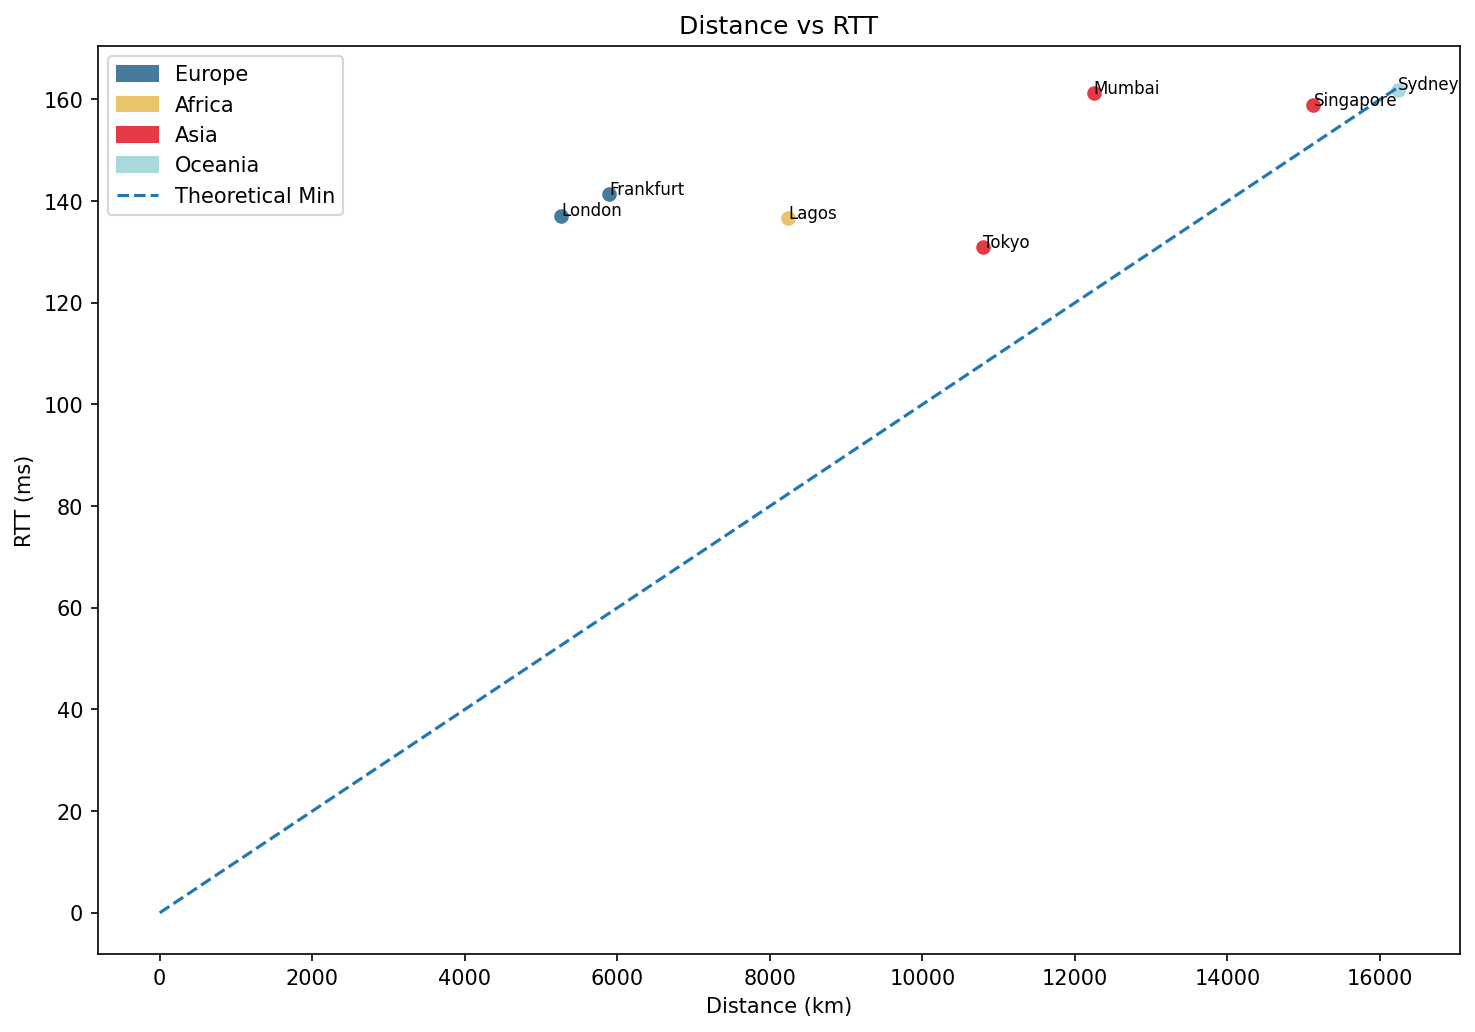
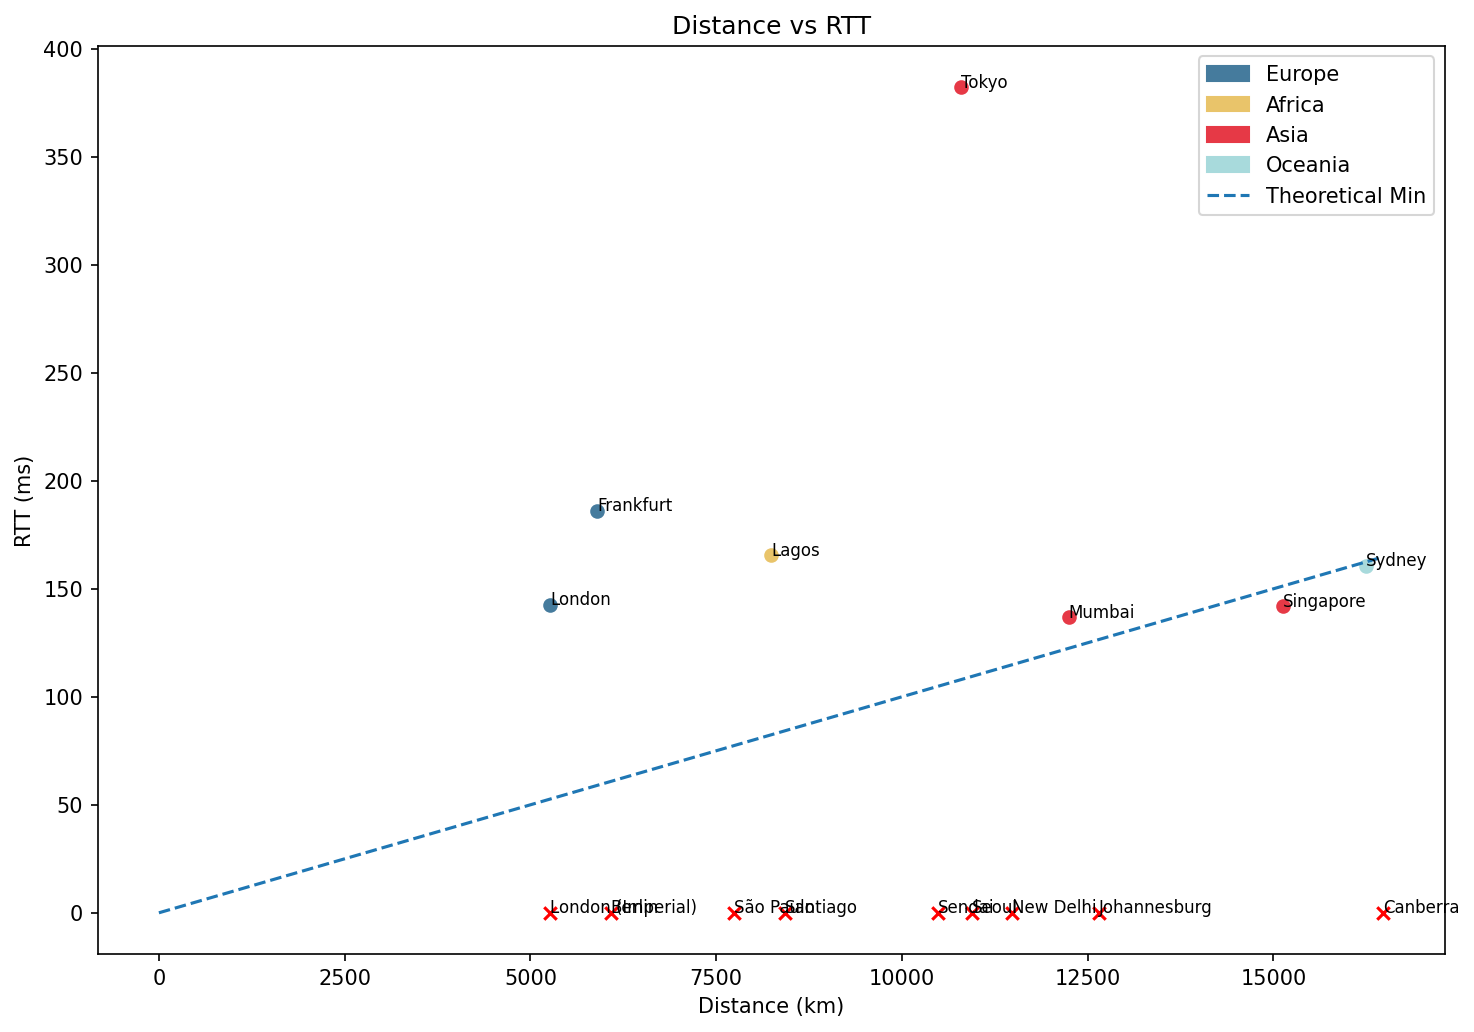
Final submission with all targets and plots

diff --git a/rtt_speedoflight.py b/rtt_speedoflight.py
@@ -208,16 +208,19 @@ def make_plots(results: dict):
         plt.close()
     """
     os.makedirs(FIGURES_DIR, exist_ok=True)
-    valid  = {c: d for c, d in results.items() if d.get("median_ms") is not None}
-    cities = sorted(valid, key=lambda c: valid[c]["distance_km"])
-
+    cities = sorted(results, key=lambda c: results[c]["distance_km"])
     # ── Figure 1 ──────────────────────────────
     fig, ax = plt.subplots(figsize=(11, 6))
     x = np.arange(len(cities))
     width = 0.4
 
-    measured = [valid[c]["median_ms"] for c in cities]
-    theoretical = [valid[c]["theoretical_min_ms"] for c in cities]
+    measured = [
+        results[c]["median_ms"] if results[c]["median_ms"] is not None else 0
+        for c in cities
+    ]
+
+    theoretical = [results[c]["theoretical_min_ms"] for c in cities]
+
 
     ax.bar(x - width/2, measured, width, label="Measured RTT")
     ax.bar(x + width/2, theoretical, width, label="Theoretical RTT")
@@ -238,22 +241,26 @@ def make_plots(results: dict):
     legend_handles = {}
 
     for city in cities:
-        d = valid[city]
+        d = results[city]
         x = d["distance_km"]
         y = d["median_ms"]
-        continent = d["continent"]
 
+        if y is None:
+            ax.scatter(x, 0, color="red", marker="x")
+            ax.text(x, 0, city, fontsize=8)
+            continue
+
+        continent = d["continent"]
         color = CONTINENT_COLORS.get(continent, "gray")
 
         ax.scatter(x, y, color=color)
-
         ax.text(x, y, city, fontsize=8)
 
         if continent not in legend_handles:
             legend_handles[continent] = mpatches.Patch(color=color, label=continent)
 
     # theoretical line
-    x_vals = np.linspace(0, max(d["distance_km"] for d in valid.values()), 100)
+    x_vals = np.linspace(0, max(d["distance_km"] for d in results.values()), 100)
     y_vals = 2 * (x_vals / FIBER_SPEED_KM_S) * 1000
 
     ax.plot(x_vals, y_vals, linestyle="--", label="Theoretical Min")
